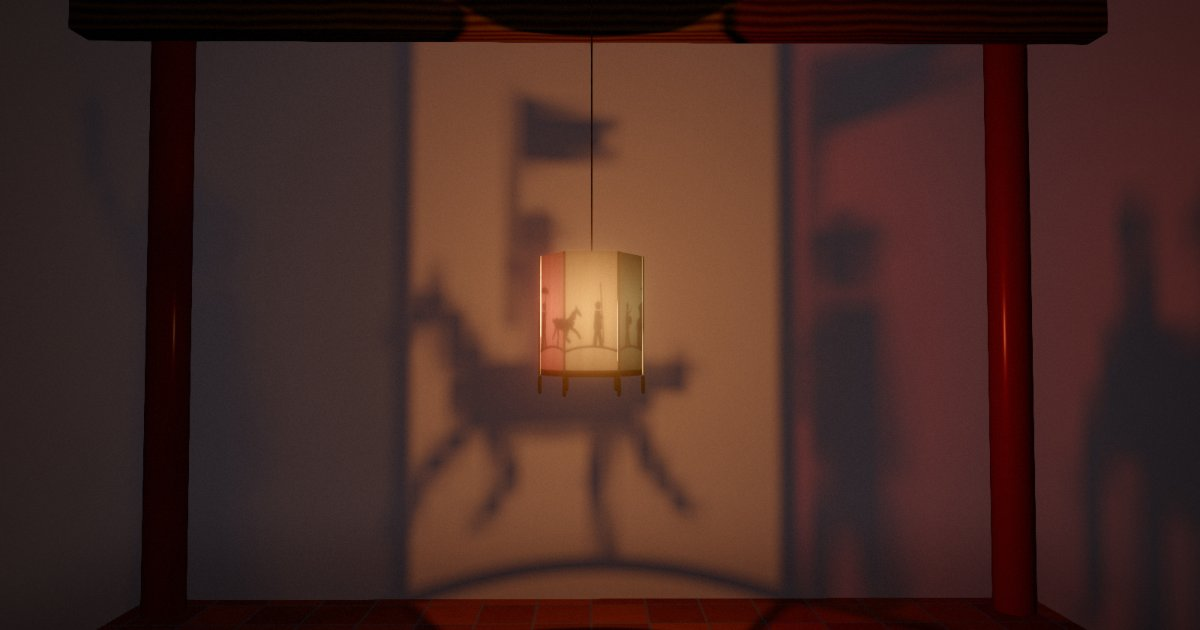
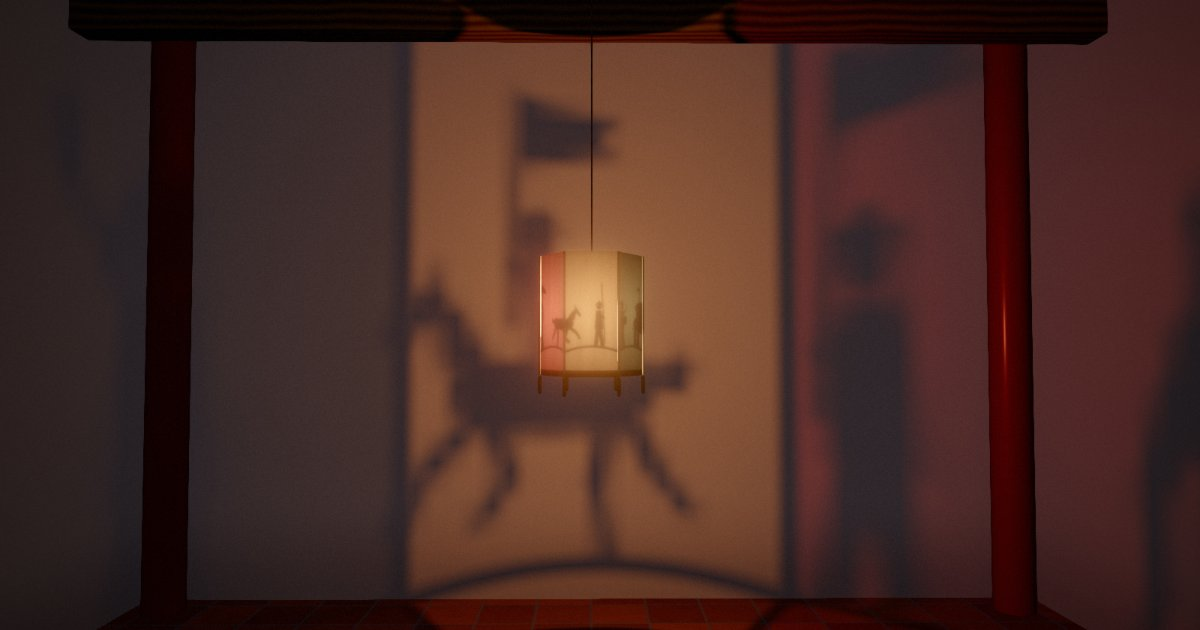
test(den-keo-quan): e2e trống quay và chong chóng quay không còn qua oan; thêm e2e nửa tối lớn và núm dựng lại; chụp lại poster
- Hai e2e so hai khung khác nhau giờ tắt hạt của Phủ bóng, nhấp nháy và nhịp thở của camera, nên chỉ còn trống quay làm ảnh đổi.
  Đã thử: giữ góc trống cố định thì cả hai đỏ.
- Thêm: penumbra 2 không làm tối oan dải sàn sát chân vách (> 88%); núm figures 10 và sides 8 dựng lại mặt nạ có mip và đèn trên
  GPU, không lỗi.
- Poster và og chụp lại ở khung 200 sau khi xếp lại hình nhân (74 KB, 47 KB).

diff --git a/e2e/den-keo-quan.spec.js b/e2e/den-keo-quan.spec.js
@@ -12,6 +12,8 @@ const WALL = { x0: 0.15, y0: 0.15, x1: 0.85, y1: 0.85 };
 // chốt lại theo bố cục cuối.
 const CEILING = { x0: 0.3, y0: 0, x1: 0.7, y1: 0.07 };
 const FLOOR = { x0: 0.35, y0: 0.93, x1: 0.65, y1: 1 };
+// Dải sàn sát chân vách sau: tia từ lửa tới đây đi DƯỚI dải hình nhân, trên đế (cách trục 1,45–1,98 m), nên không có bóng hình nhân.
+const FLOOR_RING = { x0: 0.4, y0: 0.885, x1: 0.6, y1: 0.905 };
 // Góc xa đèn: chân vách trái và sàn sát vách (cách ngọn lửa 2,5–3,2 m). Tỉ lệ khung 640×400.
 const FAR = { x0: 0, y0: 0.55, x1: 0.1, y1: 1 };
 // Sàn bên trái, ngoài vùng tối dưới đế đèn. Tỉ lệ khung 640×400.
@@ -50,6 +52,14 @@ async function open(page, testInfo, frames, extra = '') {
   return waitForFrames(page, frames, { timeout: 120_000 });
 }
 const wallOf = async (page) => (await canvasRegions(page, { wall: WALL })).wall;
+/**
+ * Đứng yên mọi thứ trừ trống: lửa thôi nhấp nháy, Phủ bóng về 0 (hạt của nó đổi theo từng khung). Gọi page.emulateMedia({ reducedMotion })
+ * trước open để camera không thở. Hai khung khác nhau thì chỉ còn trống và chong chóng quay làm ảnh đổi.
+ */
+async function onlyDrum(page) {
+  await page.evaluate(() => window.__sma.restore({ knobs: { 'ngon-nen.flicker': 0 } }));
+  await page.evaluate(() => window.__sma.setWeight('phu-bong', 0)); // vẽ lại khung đứng yên
+}
 
 /**
  * Bật/tắt một thí nghiệm như người xem. Bấm Tab (lần tương tác đầu, không chạm canvas: chạm là thổi nến; phím bổ trợ đứng một mình
@@ -76,16 +86,19 @@ test.describe('Đèn Kéo Quân · bóng trên vách', () => {
     test.skip(testInfo.project.metadata.kind !== '3d', 'chỉ chạy ở project 3D');
   });
 
-  test('đoàn quân in bóng lên vách sau và chạy theo thời gian; cùng khung thì giống hệt; mài Kéo quân về 0 thì vách sáng lên', async ({ page }, testInfo) => {
+  test('đoàn quân in bóng lên vách sau và chạy theo thời gian (do trống quay); cùng khung thì giống hệt; mài Kéo quân về 0 thì vách sáng lên', async ({ page }, testInfo) => {
     test.setTimeout(300_000);
-    await open(page, testInfo, 60);
-    const a = await wallOf(page);
-    await open(page, testInfo, 60);
-    const again = await wallOf(page);
+    await page.emulateMedia({ reducedMotion: 'reduce' }); // camera không thở (trống vẫn quay, chậm còn một nửa)
+    const frame = async (n) => {
+      await open(page, testInfo, n);
+      await onlyDrum(page);
+      return wallOf(page);
+    };
+    const a = await frame(60);
+    const again = await frame(60);
     expect(again.checksum, 'cùng ?at&freeze phải ra cùng ảnh').toBe(a.checksum);
-    await open(page, testInfo, 120);
-    const b = await wallOf(page);
-    expect(b.checksum, 'khung 60 và 120 phải khác: trống đã quay').not.toBe(a.checksum);
+    const b = await frame(120);
+    expect(b.checksum, 'khung 60 và 120 phải khác: trống đã quay (hạt và nhấp nháy đã tắt)').not.toBe(a.checksum);
     await page.evaluate(() => window.__sma.setWeight('keo-quan', 0));
     const flat = await wallOf(page);
     // So cùng một vùng trước/sau khi mài: node bóng không được dùng thì hai ảnh như nhau. Không dùng độ lệch chuẩn: chiếc đèn (khối
@@ -106,15 +119,40 @@ test.describe('Đèn Kéo Quân · bóng trên vách', () => {
 
   test('trần có vầng sáng mang bóng chong chóng xoay; sàn ngay dưới đèn tối vì đế che (mài Kéo quân về 0 thì sáng lên)', async ({ page }, testInfo) => {
     test.setTimeout(240_000);
+    await page.emulateMedia({ reducedMotion: 'reduce' }); // camera không thở: trần đổi chỉ vì chong chóng quay
     await open(page, testInfo, 60);
+    await onlyDrum(page);
     const a = await canvasRegions(page, { ceiling: CEILING, under: FLOOR });
     await open(page, testInfo, 75);
+    await onlyDrum(page);
     const b = await canvasRegions(page, { ceiling: CEILING });
     expect(b.ceiling.checksum, 'chong chóng quay: trần đổi giữa hai khung').not.toBe(a.ceiling.checksum);
     // So cùng một vùng: góc sàn xa đèn vốn tối hơn vì luật nghịch đảo bình phương, nên không so hai vùng khác nhau.
     await page.evaluate(() => window.__sma.setWeight('keo-quan', 0));
     const c = await canvasRegions(page, { under: FLOOR });
     expect(a.under.mean, 'đế che: sàn dưới đèn tối hơn khi chưa mài Kéo quân').toBeLessThan(c.under.mean * 0.8);
+    expect(log.errors).toEqual([]);
+  });
+
+  test('nửa tối lớn (penumbra 2) không làm tối oan dải sàn sát chân vách, nơi tia đi dưới dải hình nhân', async ({ page }, testInfo) => {
+    test.setTimeout(180_000);
+    await open(page, testInfo, 60);
+    const sharp = (await canvasRegions(page, { ring: FLOOR_RING })).ring;
+    await page.evaluate(() => window.__sma.restore({ knobs: { 'keo-quan.penumbra': 2 } })); // restore vẽ lại khung đứng yên
+    const soft = (await canvasRegions(page, { ring: FLOOR_RING })).ring;
+    // Đo lúc sửa (GPU thật): 0,79 khi mip cao lẫn vạch đất vào hàng mép bị kẹp của mặt nạ; 0,93 khi có cửa sổ ngoài dải.
+    expect(soft.mean).toBeGreaterThan(sharp.mean * 0.88);
+    expect(log.errors).toEqual([]);
+  });
+
+  test('núm figures và sides dựng lại mặt nạ (texture có mip) và đèn trên GPU: bóng đổi, không lỗi', async ({ page }, testInfo) => {
+    test.setTimeout(180_000);
+    await open(page, testInfo, 60);
+    const before = await wallOf(page);
+    await page.evaluate(() => window.__sma.restore({ knobs: { 'cot.figures': 10, 'cot.sides': 8 } }));
+    const after = await wallOf(page);
+    expect(after.checksum).not.toBe(before.checksum);
+    expect(await page.evaluate(() => window.__sma.state)).toBe('live');
     expect(log.errors).toEqual([]);
   });
 
